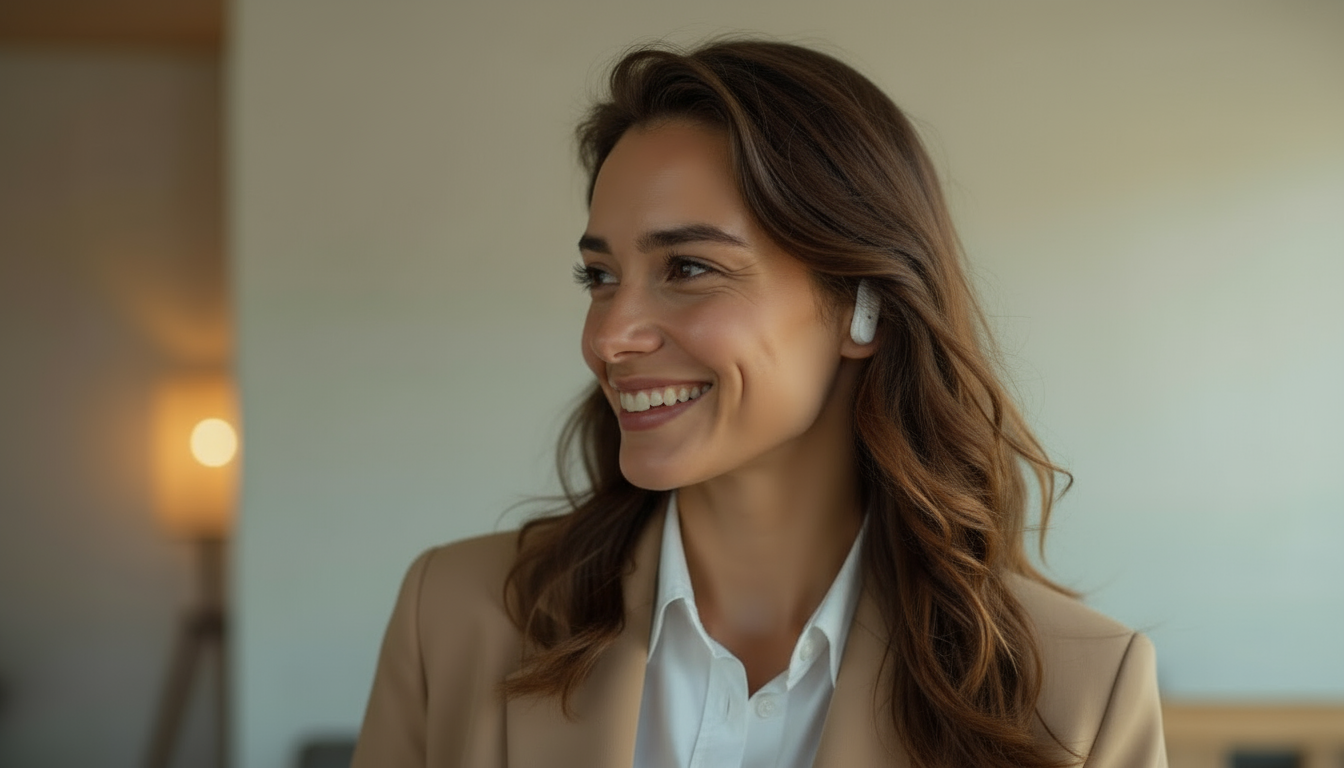
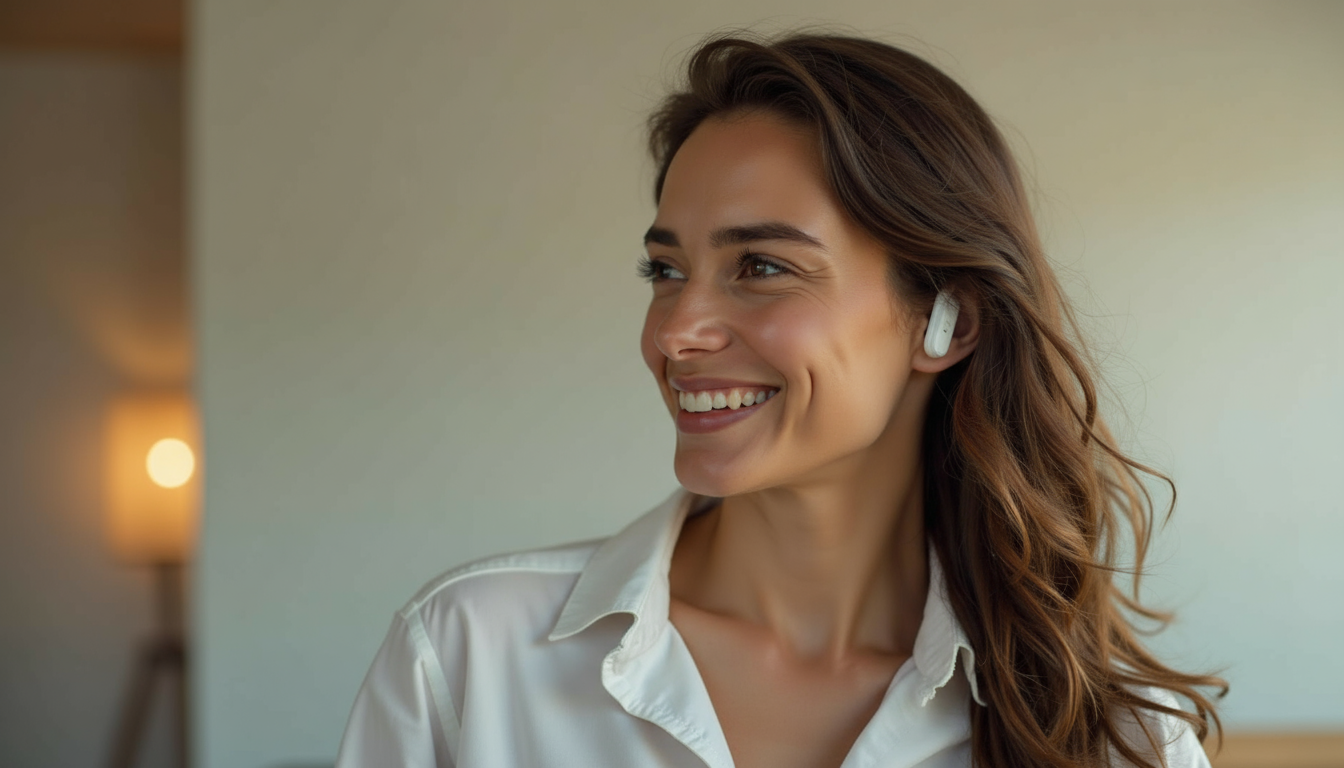
Reverted to commit 0234a8ac789a73d21bf3d5b7315baaf685377a66

diff --git a/src/components/Hero.tsx b/src/components/Hero.tsx
@@ -1,5 +1,5 @@
 import { Button } from "@/components/ui/button";
-import heroImage from "@/assets/hero-woman-earpiece.jpg";
+import heroImage from "@/assets/hero-woman-earpiece-young.jpg";
 
 const Hero = () => {
   return (
